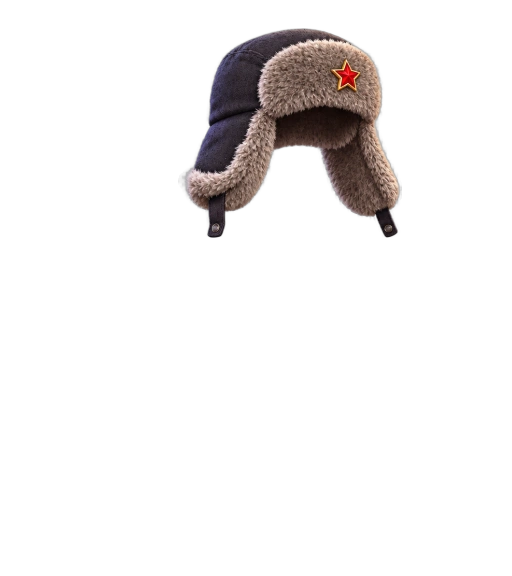
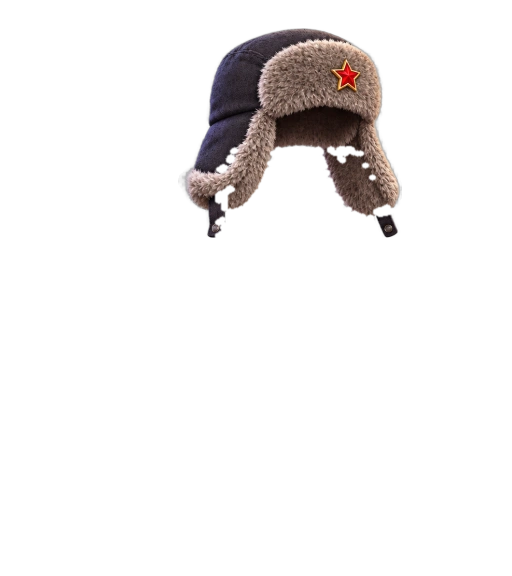
fix: carve dark inner cavity of bucket hat 01, ushanka 04, aviator 18 around head

diff --git a/src/ui.tsx b/src/ui.tsx
@@ -123,7 +123,7 @@ export const PIGEON_SKIN_COLORS: Record<string, string> = {
   "iridescent-oil-slick": "#5e5a67", "skin-18": "#5e5a67", "18": "#5e5a67",
 };
 
-const ASSET_V = "?v=23";
+const ASSET_V = "?v=24";
 
 export function resolveSkinSrc(skin?: string | null): string {
   if (!skin || skin === "common" || skin === "default") {

diff --git a/scripts/build-pigeon-assets.py b/scripts/build-pigeon-assets.py
@@ -473,7 +473,7 @@ def extract_accessory_diff(
 # Используется расширенный холст 512x576 (64px запас сверху), чтобы высокие шапки были в натуральную величину и не обрезались
 HAT_HEADROOM = 64
 STANDALONE_HAT_FIT: dict[int, tuple[int, int, int]] = {
-    1: (208, 294, 106),  # Чёрная панама
+    1: (208, 294, 116),  # Чёрная панама
     2: (202, 308, 112),  # Жёлтая кепка
     3: (162, 299, 92),   # Золотая корона
     4: (224, 290, 174),  # Шапка-ушанка
@@ -497,11 +497,14 @@ STANDALONE_HAT_ANGLES: dict[int, float] = {
 }
 
 
-def build_standalone_hats_assets(session):
+def build_standalone_hats_assets(session, ref_rgba: np.ndarray | None = None):
     """Вырезает и сажает на голову эталона 18 отдельных головных уборов из PNG-листов."""
     src_dir = RAW_DIR / "hats"
     out_slot_dir = OUT_DIR / "hats"
     out_slot_dir.mkdir(parents=True, exist_ok=True)
+    ref_head_pad = None
+    if ref_rgba is not None:
+        ref_head_pad = np.pad(ref_rgba[:, :, 3] > 128, ((HAT_HEADROOM, 0), (0, 0)))
     print(f"\n[7/7] Посадка 18 отдельных PNG-шапок из {src_dir}...")
 
     item_idx = 1
@@ -580,6 +583,20 @@ def build_standalone_hats_assets(session):
                 dy1 = min(hat_size[1], y_dst0 + new_h)
                 if dx1 > dx0 and dy1 > dy0:
                     canvas[dy0:dy1, dx0:dx1] = resized[sy0:sy0 + (dy1 - dy0), sx0:sx0 + (dx1 - dx0)]
+
+                # Для шапок с глубоким тёмным внутренним отверстием (панама 01, ушанка 04, авиатор 18)
+                # вырезаем тёмную внутреннюю полость там, где она перекрывает голову эталона
+                if ref_head_pad is not None and item_idx in (1, 4, 18):
+                    hys = np.where(canvas[:, :, 3] > 20)[0]
+                    if len(hys) > 0:
+                        y_mid = int(hys.min() + (hys.max() - hys.min()) * 0.58)
+                        y_grid = np.arange(hat_size[1])[:, None]
+                        bright = canvas[:, :, :3].mean(axis=2)
+                        thresh = 28 if item_idx == 1 else 32
+                        interior = ref_head_pad & (bright < thresh) & (y_grid >= y_mid) & (canvas[:, :, 3] > 20)
+                        interior = cv2.dilate(interior.astype(np.uint8), cv2.getStructuringElement(cv2.MORPH_ELLIPSE, (7, 7))) > 0
+                        keep_mask = cv2.GaussianBlur((~interior).astype(np.float32), (3, 3), 0.7)
+                        canvas[:, :, 3] = np.clip(canvas[:, :, 3].astype(np.float32) * keep_mask, 0, 255).astype(np.uint8)
 
                 out_file = out_slot_dir / f"hats-{item_idx:02d}.webp"
                 save_rgba_webp(canvas, out_file, size=hat_size)
@@ -735,7 +752,7 @@ def main():
     build_accessories_assets("shoes", ["shoes1.jpg", "shoes2.jpg", "shoes3.jpg"], ref_rgba, session, "[5/7]")
     build_accessories_assets("clothes", ["clothes1.jpg", "clothes2.png", "clothes3.png"], ref_rgba, session, "[6/7]")
     if (RAW_DIR / "hats" / "hats-raw-1.png").exists():
-        build_standalone_hats_assets(session)
+        build_standalone_hats_assets(session, ref_rgba)
     else:
         build_accessories_assets("hats", ["hats1.png", "hats2.png", "hats3.png"], ref_rgba, session, "[7/7]")
 
